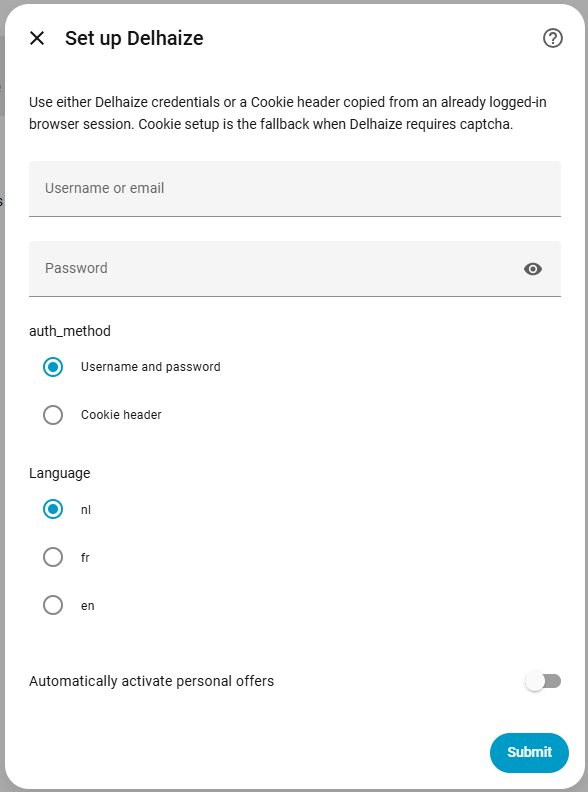
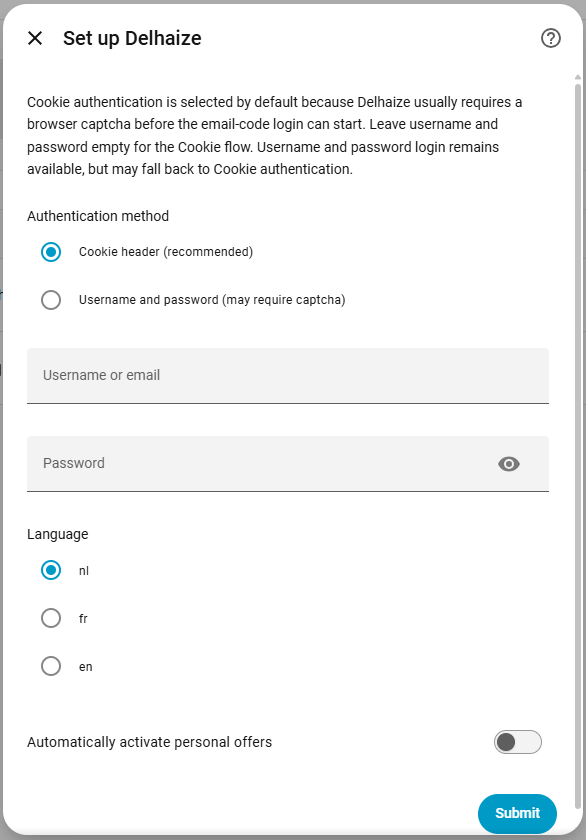
readme update

diff --git a/README.md b/README.md
@@ -31,8 +31,10 @@ The integration stores refreshed Delhaize cookies in the Home Assistant config e
    -    [![Open your Home Assistant instance and open the repository inside the Home Assistant Community Store.](https://my.home-assistant.io/badges/hacs_repository.svg?style=flat-square)](https://my.home-assistant.io/redirect/hacs_repository/?owner=myTselection&repository=delhaize_hacs&category=integration)
 - Restart Home Assistant.
 - Add the `Delhaize` integration from Settings > Devices and services.
-- Use the default Cookie header flow, or choose username/password as a secondary login attempt.
+- Use the default Cookie header flow, enter username and password.
   - <img src="https://raw.githubusercontent.com/myTselection/delhaize_hacs/master/setup.png"/>
+  - In the next screen of the flow, the cookie header input will be requested. Open a separate browser and login in on the site https://www.delhaize.be/my-account/dashboard, after login, open the Developer Tools of the browser (F12) and select 'Network' tab. Select a connection loaded from "https://www.delhaize.be/api/v1/..." and search for the "Request Headers" > "Cookie". Copy and paste the full "Cookie" value into the Home Assistant "cookie" field. This will allow Home Assistant to re-use the authenticated browser session.
+  - <img src="https://raw.githubusercontent.com/myTselection/delhaize_hacs/master/cookiefrombrowser.png"/>
   - When the option "Automatically activate personal offers" is enabled and personal offers are detected which haven't been activated yet, these will automatically be activated.
   - The configuration options can still be changed after setup has been completed
 - After setup, use the integration's Configure/Options screen to update language, automatic offer activation, credentials, or the Cookie header.